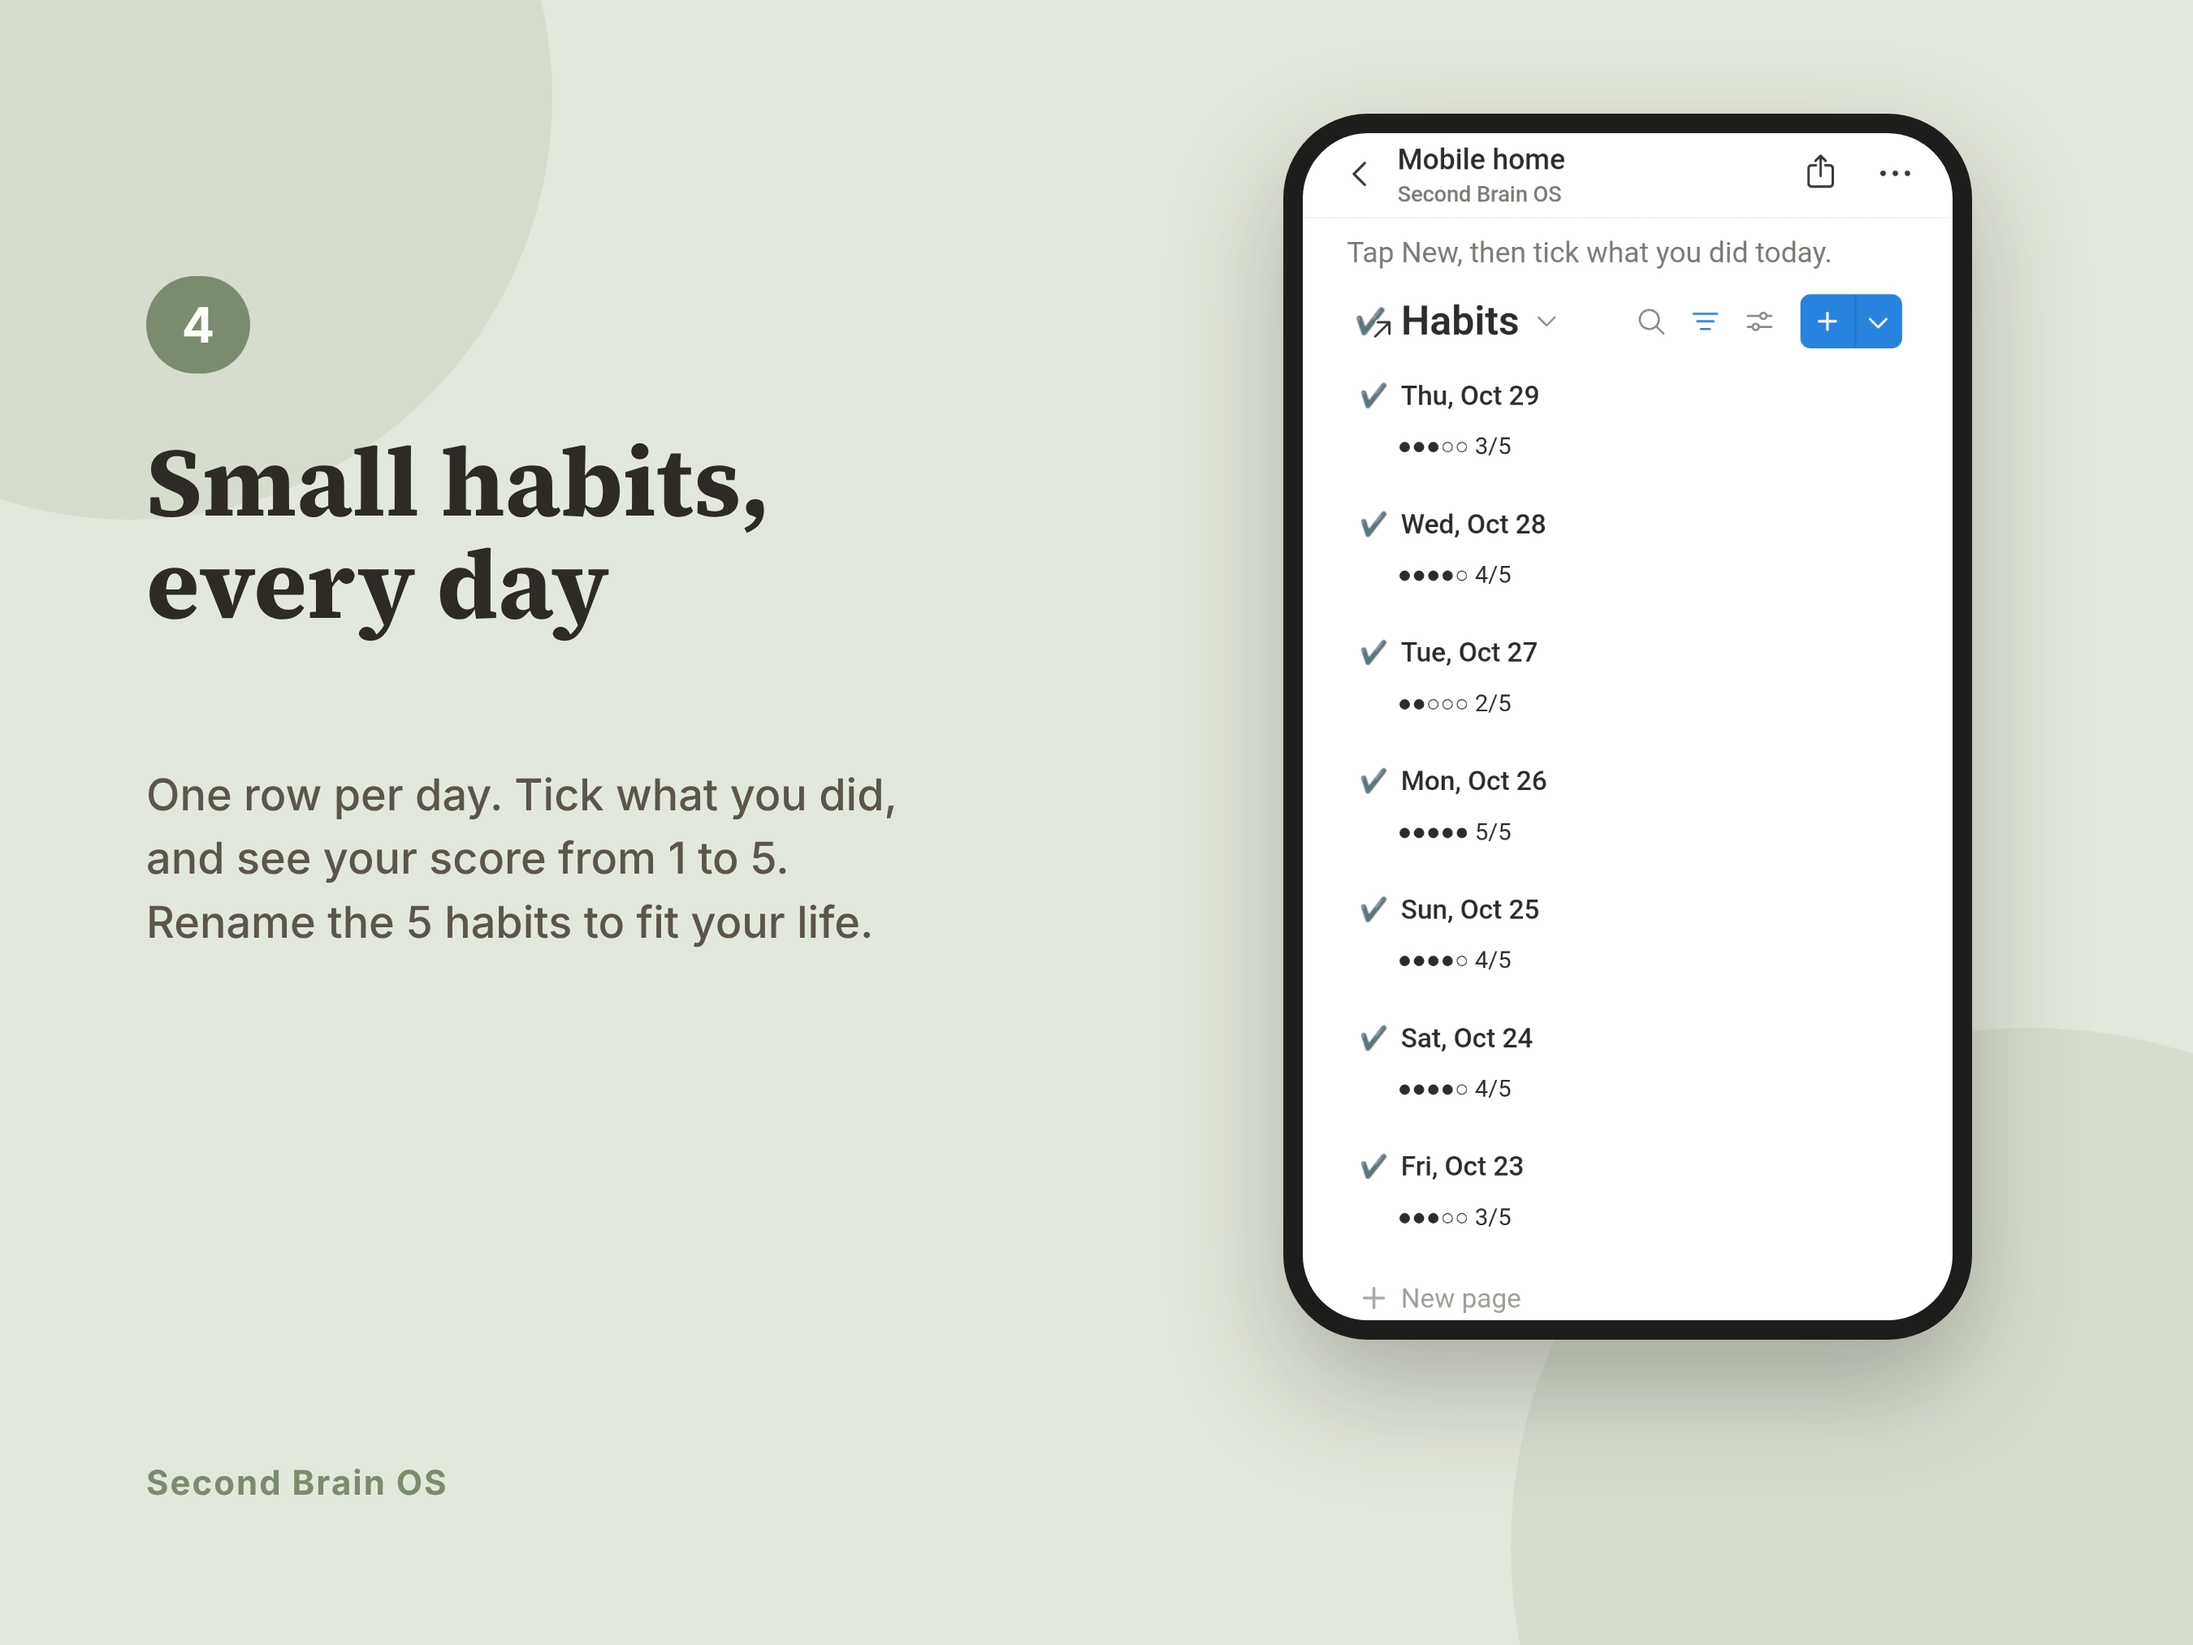
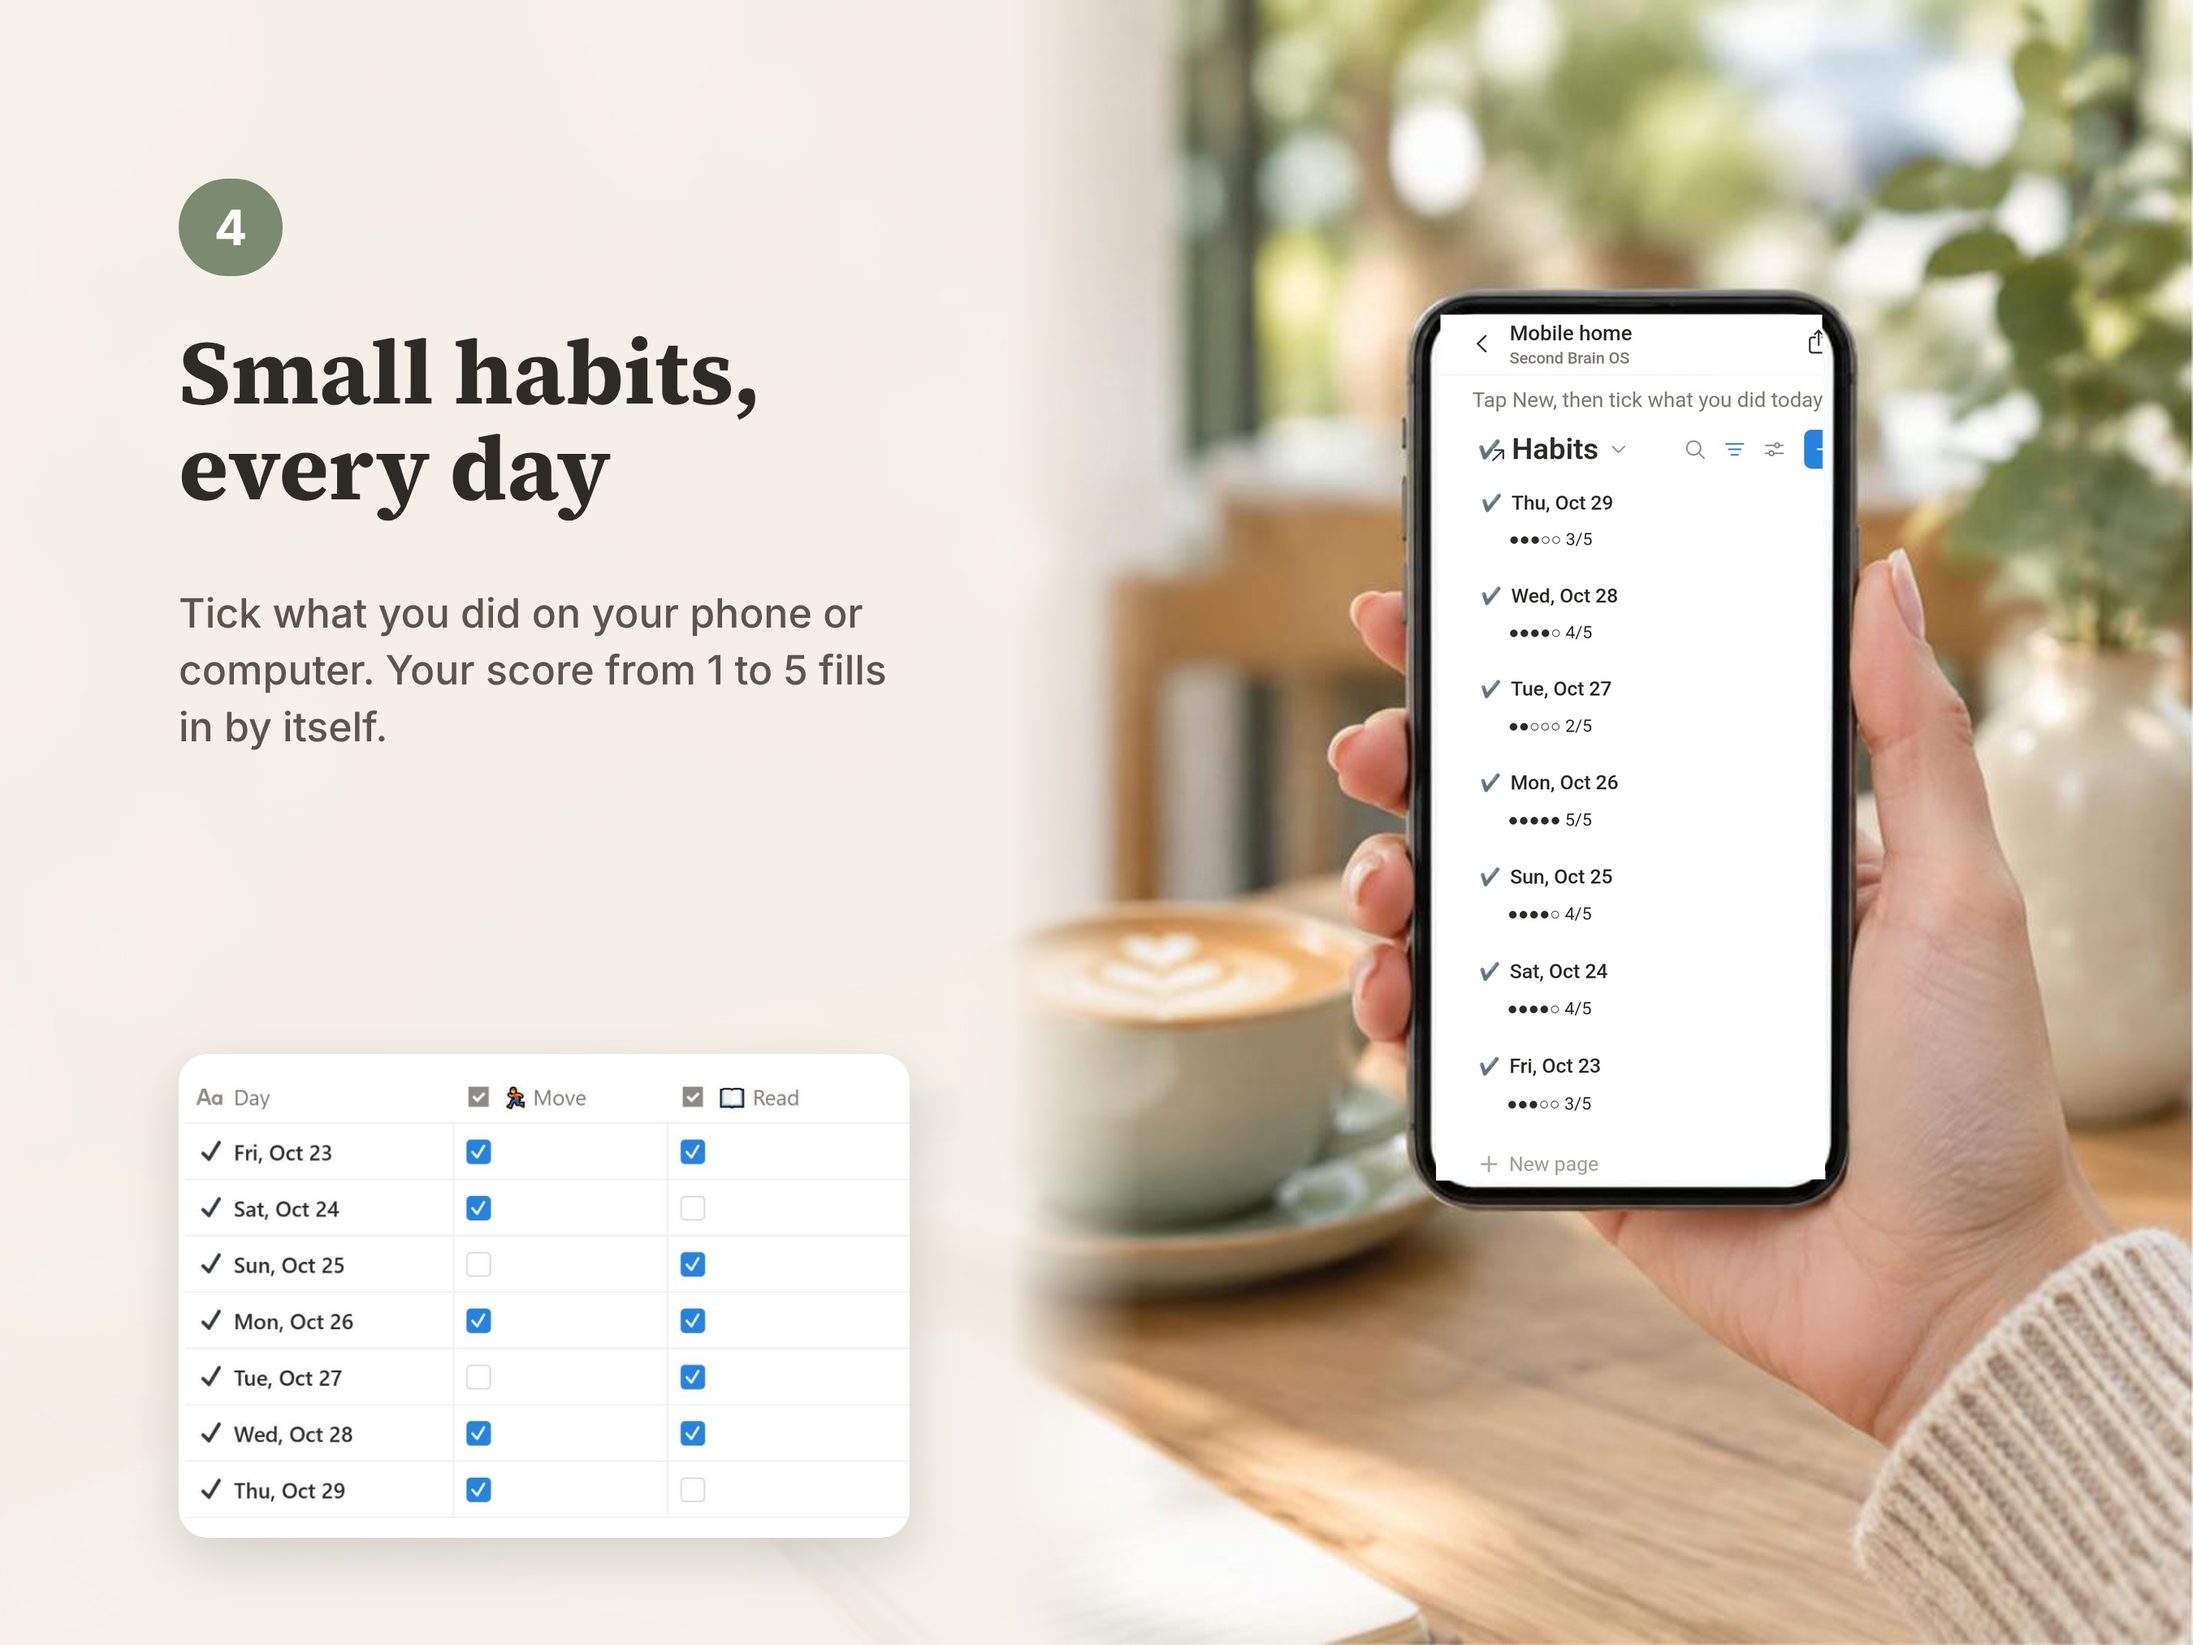
SB listing v3: phone lifestyle scenes, Gumroad 16:9 set + square thumb
Claude-Session: https://claude.ai/code/session_01SESvdWYowsCKTnCuHXDcbL

diff --git a/generator/v3/sb_listing_v3.py b/generator/v3/sb_listing_v3.py
@@ -9,7 +9,7 @@ B.CROPS.update({
     'sb-lap': ('sb-home', (95, 0, 1945, 1100)),
     'c-sb-widget': ('sb-home', (166, 968, 1382, 1456)),
     'c-sb-goals': ('sb-goals', (180, 330, 1330, 850)),
-    'c-sb-journal': ('sb-journal', (180, 330, 820, 1000)),
+    'c-sb-journal': ('sb-journal', (180, 345, 820, 672)),
     'sb-scr-widget': ('sb-home', (95, 330, 1945, 1460)),
     'sb-scr-goals': ('sb-goals', (150, 60, 1945, 1220)),
     'sb-scr-projects': ('sb-projects', (150, 330, 1990, 1220)),
@@ -31,11 +31,11 @@ L.P['sb'] = dict(name='Second Brain OS', kicker='NOTION LIFE PLANNER · PARA MET
             'Reading list + weekly, monthly, yearly reviews', 'Bonus PDF: Notion for beginners'])
 import numpy as np
 from PIL import Image, ImageDraw
-W, H = L.W, L.H
 
 
 def life_bg(scene, screen, out, text_side='right', dark=False):
     """scene scaled to page height, real screenshot warped into the blank screen, soft panel on the text side"""
+    W, H = L.W, L.H
     sc = Image.open(os.path.join(L.HERE, scene)).convert('RGB'); w0, h0 = sc.size
     k = (H * 2) / h0; Wb = int(w0 * k)
     ox = 0 if text_side == 'right' else Wb - W * 2
@@ -81,9 +81,11 @@ LIFE = [  # (n, title, desc, scene, screen crop, card crop, text side, dark)
 ]
 
 PH = os.path.join(B.HD)
+PHLIFE = [  # (n, title, desc, scene, phone shot, desktop card, text side)
+    (4, 'Small habits, every day', 'Tick what you did on your phone or computer. Your score from 1 to 5 fills in by itself.', 's-sbph.png', 'sbph-habits', 'c-sb-habits', 'left'),
+    (5, 'A 2-minute daily journal', 'Mood, one win and one thank you before bed. Your latest entries on the home page.', 's-sbph-m.png', 'sbph-journal', 'c-sb-journal', 'right'),
+]
 PHONES = [  # (n, title, desc, [phone screenshots])
-    (4, 'Small habits, every day', 'One row per day. Tick what you did, and see your score from 1 to 5. Rename the 5 habits to fit your life.', ['sbph-habits']),
-    (5, 'A 2-minute daily journal', 'Mood, one win and one thank you before bed. Capture ideas on the go and sort them later.', ['sbph-journal', 'sbph-capture']),
     (6, 'Your Second Brain on your phone', 'A light Mobile home page: today, your next 7 days, habits and journal, one tap away.', ['sbph-mhome', 'sbph-tasks']),
 ]
 
@@ -110,6 +112,20 @@ def phone_page(n, title, desc, shots, base_url):
     return L.page(lab, inner, None, p['color'])
 
 
+def phone_life_page(n, title, desc, scene, shot, card, side, base_url):
+    p = L.P['sb']; lab = f'sb-{n + 1}-feature'; bgf = lab + '.jpg'
+    life_bg(scene, os.path.join(B.HD, shot + '.png'), os.path.join(L.OUT, 'sb', bgf), 'right' if side == 'right' else 'left')
+    X = 110 if side == 'left' else 790 + L.W - 1350
+    inner = (f'<p style="position:absolute;left:{X}px;top:110px;width:64px;margin:0;padding:12px 0;text-align:center;border-radius:999px;background:{p["accent"]};color:{L.PAP};font-size:30px;font-weight:700">{n}</p>'
+             + L.T(X, 200, 460, title, 56, f'line-height:1.05;color:{L.INK};{L.SER}')
+             + L.T(X, 360, 440, desc, 25, f'line-height:1.4;color:{L.MUT}'))
+    CW = 450
+    url, ih = B.fit(card, CW, 330, f'p{n}'); url = url.replace(B.RAW + 'crops/', base_url + 'crops/')
+    inner += (f'<div style="position:absolute;left:{X}px;top:{L.H - ih - 90}px;width:{CW}px;height:{ih + 24}px;background:#FFFFFF;border-radius:18px;overflow:hidden;box-shadow:0 12px 34px rgba(0,0,0,.14)">'
+              f'<img src="{url}" style="position:absolute;left:0;top:12px;width:{CW}px;height:{ih}px"></div>')
+    return L.page(lab, inner, f'{base_url}sb/{bgf}')
+
+
 def bonus_page(base_url):
     p = L.P['sb']; g = ['file://' + os.path.join(L.ROOT, 'canva', 'v3', 'crops', f'sbguide-{i}.png') for i in (1, 2, 3)]
     sh = 'box-shadow:0 28px 60px rgba(46,42,37,.28);border-radius:10px'
@@ -128,30 +144,39 @@ def life_page(n, title, desc, scene, screen, card, side, dark, base_url):
     p = L.P['sb']; fg = L.PAP if dark else L.INK; sub = '#F1E7DC' if dark else L.MUT
     lab = f'sb-{n + 1}-feature'; bgf = lab + '.jpg'
     life_bg(scene, screen, os.path.join(L.OUT, 'sb', bgf), side, dark)
-    X = 790 if side == 'right' else 110
+    dx = L.W - 1350
+    X = 790 + dx if side == 'right' else 110
     inner = (f'<p style="position:absolute;left:{X}px;top:120px;width:64px;margin:0;padding:12px 0;text-align:center;border-radius:999px;background:{p["accent"]};color:{L.PAP};font-size:30px;font-weight:700">{n}</p>'
              + L.T(X, 215, 460, title, 58, f'line-height:1.05;color:{fg};{L.SER}')
              + L.T(X, 400, 430, desc, 26, f'line-height:1.4;color:{sub}')
              + L.T(X, 900, 0, 'Second Brain OS', 21, f'font-weight:700;letter-spacing:1px;color:{p["accent"]}'))
     CW = 560
     url, ih = B.fit(card, CW, 300, f'l{n}'); url = url.replace(B.RAW + 'crops/', base_url + 'crops/')
-    cx = 130 if side == 'right' else 1350 - 130 - CW
-    inner += (f'<div style="position:absolute;left:{cx}px;top:{H - ih - 120}px;width:{CW}px;height:{ih + 30}px;background:#FFFFFF;border-radius:20px;overflow:hidden;box-shadow:0 14px 40px rgba(0,0,0,.18)">'
+    cx = 130 if side == 'right' else L.W - 130 - CW
+    inner += (f'<div style="position:absolute;left:{cx}px;top:{L.H - ih - 120}px;width:{CW}px;height:{ih + 30}px;background:#FFFFFF;border-radius:20px;overflow:hidden;box-shadow:0 14px 40px rgba(0,0,0,.18)">'
               f'<img src="{url}" style="position:absolute;left:0;top:15px;width:{CW}px;height:{ih}px"></div>')
     return L.page(lab, inner, f'{base_url}sb/{bgf}')
 
 
 if __name__ == '__main__':
     want = sys.argv[1:]
-    os.makedirs(os.path.join(L.OUT, 'sb'), exist_ok=True); os.makedirs(os.path.join(L.OUT, 'final', 'sb'), exist_ok=True)
+    store = 'etsy'; sub = 'etsy'; final = os.path.join(L.OUT, 'final', 'sb')
+    if want[:1] == ['--gumroad']:  # 16:9 covers, Gumroad delivery steps, nothing about Etsy
+        want = want[1:]; store = 'gumroad'; sub = 'etsy/gumroad'
+        L.W = 1801; L.BGOUT = os.path.join(L.OUT, 'gumroad'); final = os.path.join(L.OUT, 'gumroad', 'sb')
+    os.makedirs(os.path.join(L.BGOUT, 'sb'), exist_ok=True); os.makedirs(final, exist_ok=True)
+    _lb = life_bg
+    def life_bg(scene, screen, out, side='right', dark=False):  # write backgrounds next to the store's pages
+        return _lb(scene, screen, os.path.join(L.BGOUT, 'sb', os.path.basename(out)), side, dark)
+    globals()['life_bg'] = life_bg
     base = 'file://' + os.path.join(L.ROOT, 'canva', 'v3') + '/LOCALMARK/'
-    pages = L.build('sb', base)
-    life = [life_page(*row, base) for row in LIFE] + [phone_page(*row, base) for row in PHONES]
+    pages = L.build('sb', base, store)
+    life = [life_page(*row, base) for row in LIFE] + [phone_life_page(*row, base) for row in PHLIFE] + [phone_page(*row, base) for row in PHONES]
     inside = pages[5].replace('sb-6-inside', 'sb-8-inside'); how = pages[6].replace('sb-7-how', 'sb-9-how')
     pages = [pages[0]] + life + [inside, how, bonus_page(base)]
     for pg in pages:
-        pg2 = pg.replace('/LOCALMARK/crops/', '/crops/').replace('/LOCALMARK/', '/etsy/')
+        pg2 = pg.replace('/LOCALMARK/crops/', '/crops/').replace('/LOCALMARK/', '/' + sub + '/')
         lab = re.search(r'data-label="([^"]+)"', pg2).group(1)
         if want and not any(w in lab for w in want):
             continue
-        L.render_png(pg2, os.path.join(L.OUT, 'final', 'sb', lab + '.png')); print('ok', lab)
+        L.render_png(pg2, os.path.join(final, lab + '.png')); print('ok', lab)
